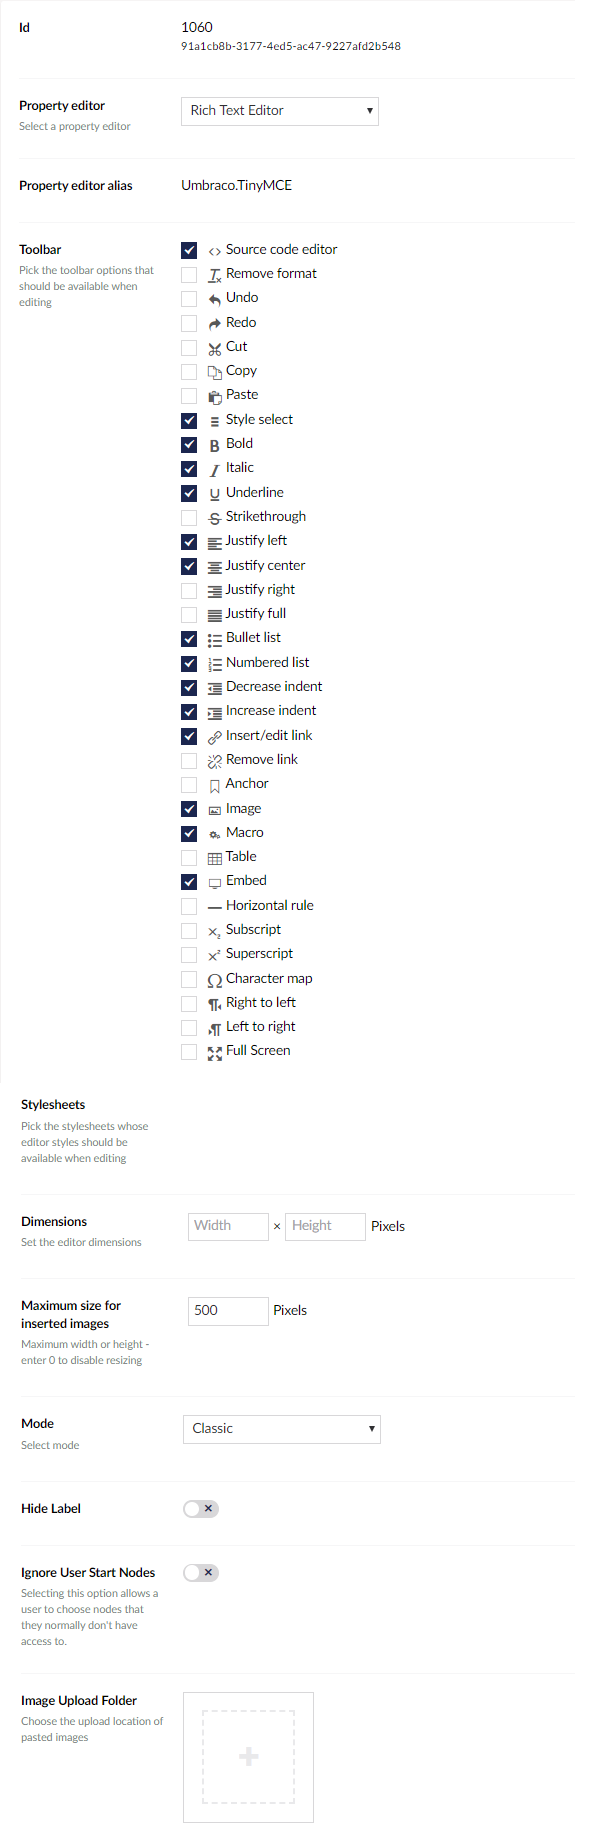
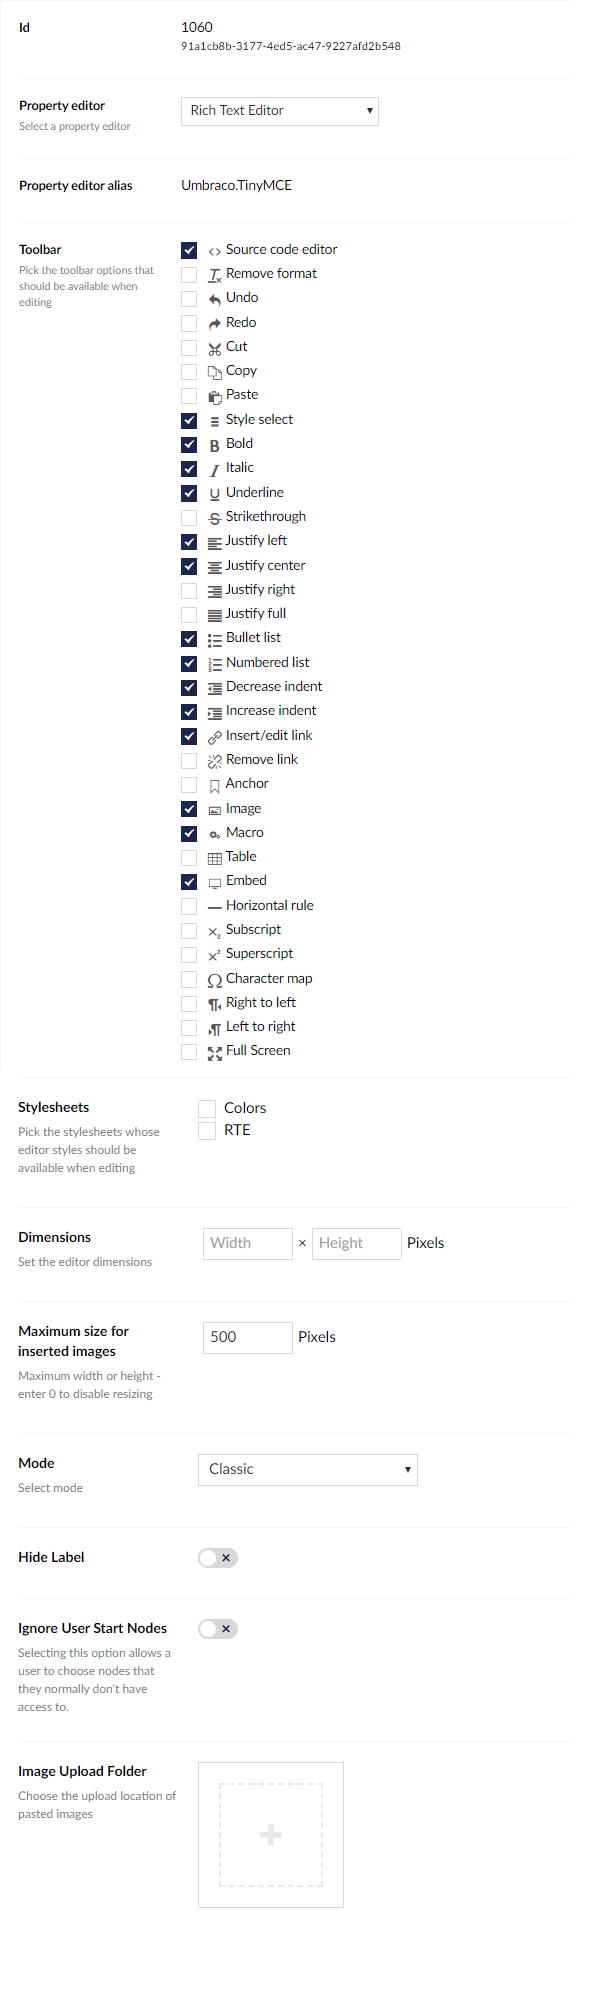
New image for the data type example and describe styles in short

diff --git a/Getting-Started/Backoffice/Property-Editors/Built-in-Property-Editors/Rich-Text-Editor/Configuration/index.md b/Getting-Started/Backoffice/Property-Editors/Built-in-Property-Editors/Rich-Text-Editor/Configuration/index.md
@@ -14,9 +14,9 @@ In the examble above, all 34 options have been enabled. The options include copy
 
 ## Stylesheets
 
-It's possible to define specific styles that can be used when editing content using the Rich Text Editor.
+It is possible to define specific styles that can be used when editing content using the RTE. You can use as many of these styles with the RTE.
 
-These styles are defined in stylesheets which can be created in the **Settings** section. Read the [Rich Text Editor Stylesheets]() article to learn more about this feature.
+The RTE styles are defined in CSS files which can be created in the **Settings** section. Read the [RTE Styles](../RTE-Styles) article to learn more about this feature.
 
 ## Dimensions
 
